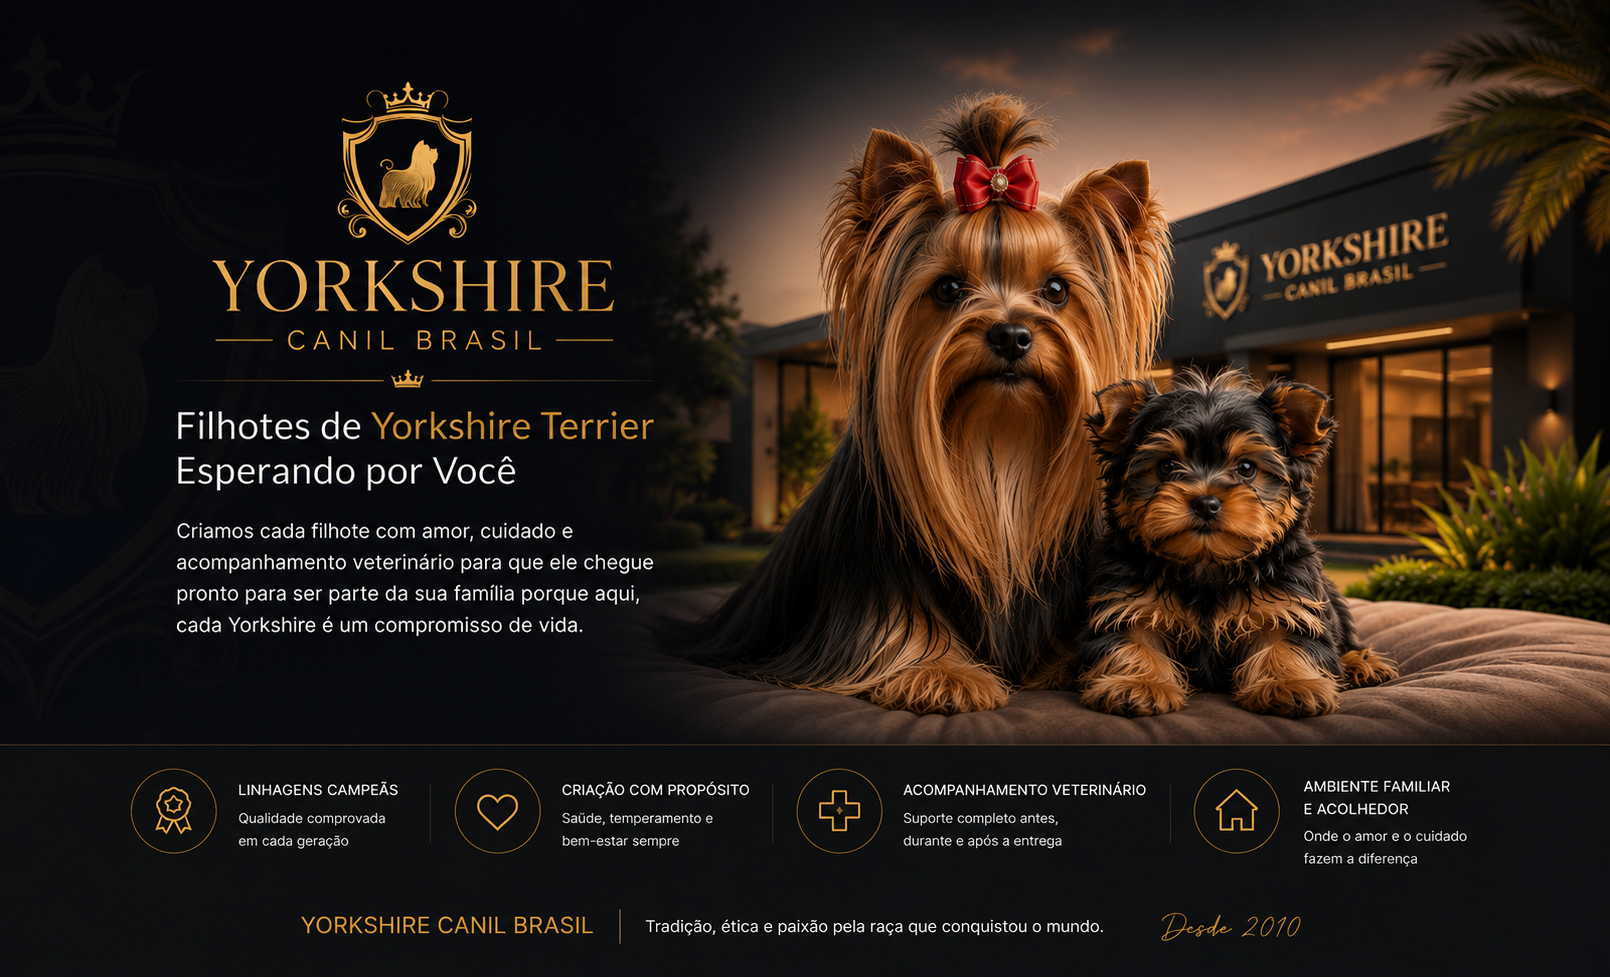
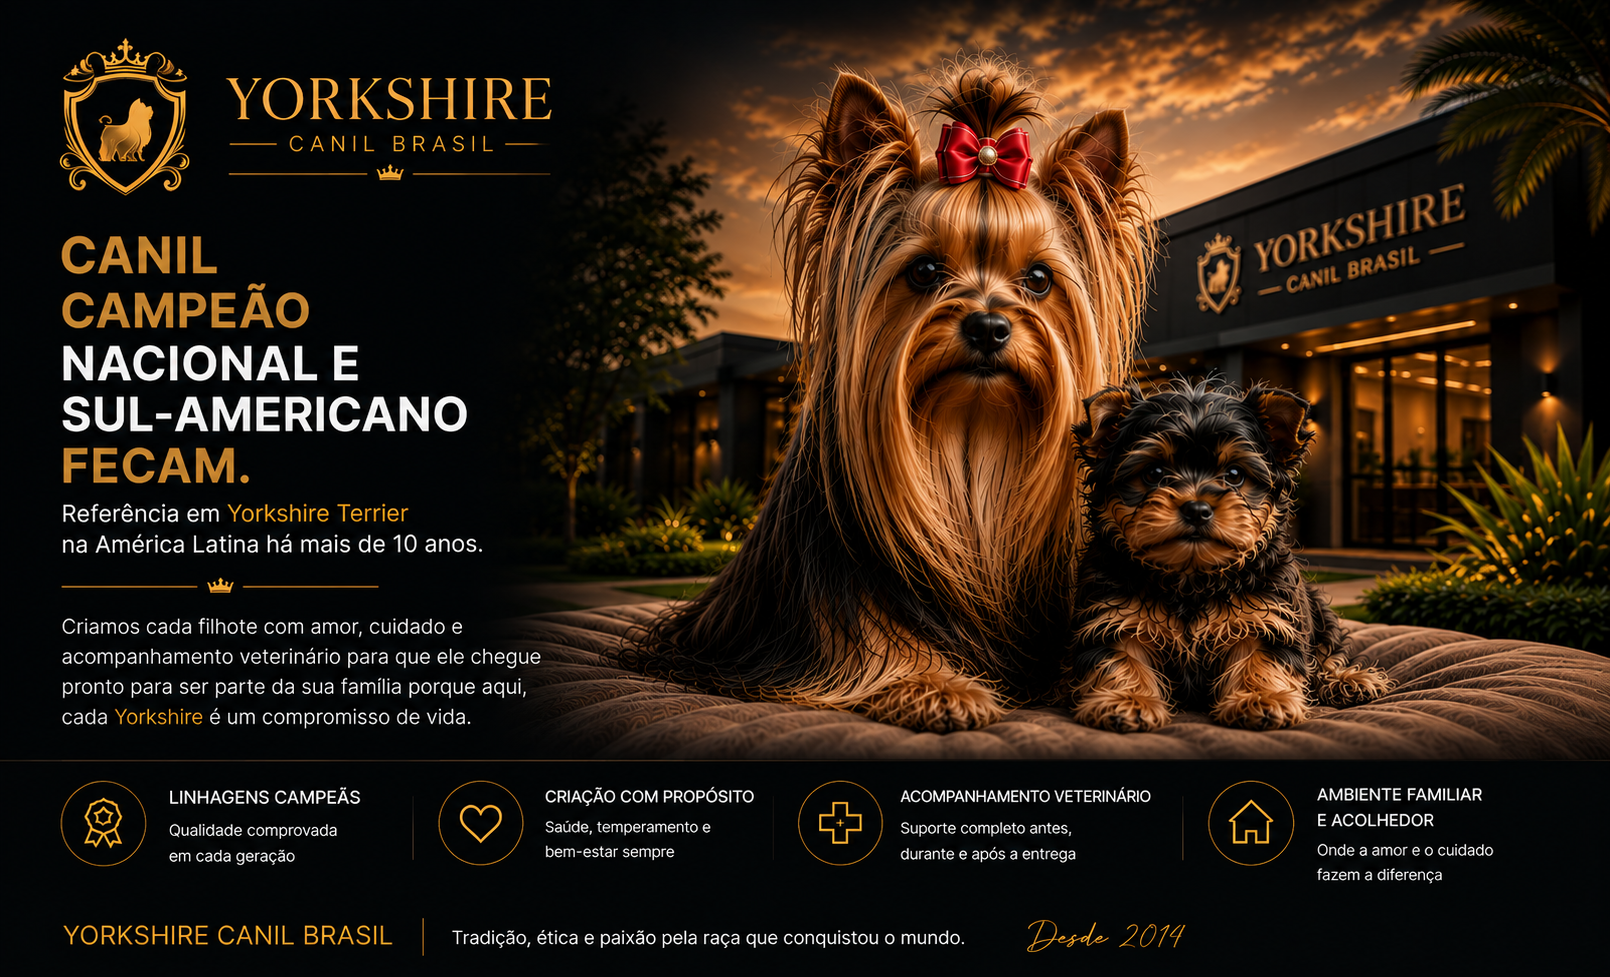
fix: ajustes pedidos pelo cliente

diff --git a/src/index.html b/src/index.html
@@ -235,16 +235,16 @@
       <section id="numeros" aria-label="Números do canil">
         <div class="numeros-grid">
           <div class="numero-item">
-            <strong>+10</strong>
-            <span>Anos de história</span>
+            <strong>Desde 2014</strong>
+            <span>Mais de 10 anos de história</span>
           </div>
           <div class="numero-item">
             <strong>Campeão</strong>
             <span>Nacional e Sul-Americano</span>
           </div>
           <div class="numero-item">
-            <strong>CBKC</strong>
-            <span>Registro oficial</span>
+            <strong>FECAM</strong>
+            <span>Referência na América Latina</span>
           </div>
           <div class="numero-item">
             <strong>Brasil</strong>
@@ -259,19 +259,27 @@
           <div class="titulo-card">
             <span class="titulo-icon">🏆</span>
             <h3>Campeão Nacional</h3>
-            <p>Título reconhecido pela CBKC</p>
           </div>
           <div class="titulo-card">
             <span class="titulo-icon">🏆</span>
             <h3>Campeão Sul-Americano</h3>
-            <p>Excelência reconhecida internacionalmente</p>
           </div>
           <div class="titulo-card">
             <span class="titulo-icon">📜</span>
             <h3>Canil Registrado</h3>
-            <p>Pedigree oficial e rastreabilidade completa</p>
           </div>
         </div>
+      </section>
+
+      <section id="famosos" aria-label="Famosos que já passaram por aqui">
+        <h2>Famosos que Já Passaram por Aqui</h2>
+        <div id="famosos-grid"></div>
+      </section>
+
+      <section id="emocoes" aria-label="Emoções reais">
+        <h2>Emoções Reais</h2>
+        <p class="section-subtitle">Famílias que confiaram em nós.</p>
+        <div id="emocoes-grid"></div>
       </section>
 
       <section id="filhotes" aria-label="Filhotes disponíveis">
@@ -290,17 +298,6 @@
           <a href="https://wa.me/5511977118201" target="_blank" rel="noopener" class="btn-primary">🐾 Quero Meu Filhote</a>
           <a href="#diferenciais" class="btn-outline">Sobre o Canil →</a>
         </div>
-      </section>
-
-      <section id="famosos" aria-label="Famosos que já passaram por aqui">
-        <h2>Famosos que Já Passaram por Aqui</h2>
-        <div id="famosos-grid"></div>
-      </section>
-
-      <section id="emocoes" aria-label="Emoções reais">
-        <h2>Emoções Reais</h2>
-        <p class="section-subtitle">Famílias que confiaram em nós.</p>
-        <div id="emocoes-grid"></div>
       </section>
 
       <!-- Seção oculta até receber depoimentos reais
@@ -338,7 +335,7 @@
           <div class="sobre-texto">
             <p>Há mais de 10 anos, o <strong>Yorkshire Canil Brazil</strong> se dedica à criação responsável, ética e amorosa dos mais lindos Yorkshire Terriers do Brasil.</p>
             <p>Com títulos nacionais e sul-americanos, somos o canil dos artistas e referência em toda a América Latina. Cuidamos de cada filhote como se fosse único, com carinho, saúde e estrutura de alto padrão.</p>
-            <p>Tradição, ética e paixão pela raça que conquistou o mundo. <em>Desde 2010.</em></p>
+            <p>Tradição, ética e paixão pela raça que conquistou o mundo. <em>Desde 2014.</em></p>
           </div>
         </div>
       </section>
@@ -355,8 +352,8 @@
         <article>
           <h3>Pedigree e Registro Oficial</h3>
           <p>
-            Todos os filhotes são registrados com pedigree completo e microchip
-            — garantia de linhagem e rastreabilidade.
+            Todos os filhotes são registrados com pedigree completo e microchip.
+            Garantia de linhagem e rastreabilidade.
           </p>
         </article>
         <article>
@@ -486,7 +483,7 @@
           </svg>
         </a>
       </div>
-      <p>&copy; 2025 Yorkshire Canil Brazil</p>
+      <p>&copy; 2014 Yorkshire Canil Brazil</p>
     </footer>
 
     <a

diff --git a/src/blog/index.html b/src/blog/index.html
@@ -31,23 +31,24 @@
 
   <main>
     <section class="blog-listing">
+      <a href="../index.html" class="blog-back">← Página Inicial</a>
       <h1>Blog — Dicas e Curiosidades sobre Yorkshire Terrier</h1>
 
       <div class="blog-grid">
         <article class="blog-card">
-          <h2><a href="como-cuidar-filhote-yorkshire.html">Como Cuidar de um Filhote de Yorkshire Terrier</a></h2>
+          <h2><a href="como-cuidar-filhote-yorkshire.html">Como Cuidar de Filhote Yorkshire</a></h2>
           <p>Guia completo com alimentação, vacinas, banho e os primeiros dias em casa.</p>
           <time datetime="2025-01-15">15 de janeiro de 2025</time>
         </article>
 
         <article class="blog-card">
-          <h2><a href="yorkshire-terrier-temperamento-personalidade.html">Temperamento do Yorkshire Terrier: Tudo que Você Precisa Saber</a></h2>
+          <h2><a href="yorkshire-terrier-temperamento-personalidade.html">Temperamento do Yorkshire</a></h2>
           <p>Descubra por que o Yorkshire é uma das raças mais amadas do Brasil.</p>
           <time datetime="2025-01-20">20 de janeiro de 2025</time>
         </article>
 
         <article class="blog-card">
-          <h2><a href="como-escolher-canil-yorkshire-confiavel.html">Como Escolher um Canil de Yorkshire Confiável</a></h2>
+          <h2><a href="como-escolher-canil-yorkshire-confiavel.html">Escolhendo um Canil Confiável</a></h2>
           <p>Dicas para identificar criadores sérios e evitar golpes na compra do seu filhote.</p>
           <time datetime="2025-01-25">25 de janeiro de 2025</time>
         </article>
@@ -56,7 +57,7 @@
   </main>
 
   <footer>
-    <p>&copy; 2025 Yorkshire Canil Brazil</p>
+    <p>&copy; 2014 Yorkshire Canil Brazil</p>
   </footer>
 
   <a href="https://wa.me/5511977118201" target="_blank" rel="noopener" class="whatsapp-float" aria-label="Fale pelo WhatsApp">

diff --git a/src/blog/yorkshire-terrier-temperamento-personalidade.html b/src/blog/yorkshire-terrier-temperamento-personalidade.html
@@ -43,7 +43,6 @@
       <a href="../index.html" class="logo"><img src="../images/e9762d_8b6bed4dcbc94d0c927977c8fc01122d~mv2.avif" alt="Yorkshire Canil Brazil" class="logo-img" /></a>
       <ul class="nav-links">
         <li><a href="../index.html#filhotes">Filhotes</a></li>
-        <li><a href="../index.html#blog">Blog</a></li>
         <li><a href="../index.html#contato">Contato</a></li>
       </ul>
       <button class="menu-toggle" aria-label="Abrir menu" aria-expanded="false">
@@ -54,6 +53,7 @@
 
   <main>
     <article class="blog-post">
+      <a href="./" class="blog-back">← Voltar ao Blog</a>
       <h1>Temperamento do Yorkshire Terrier: Tudo que Você Precisa Saber</h1>
       <time datetime="2025-01-20">20 de janeiro de 2025</time>
 
@@ -91,7 +91,7 @@
   </main>
 
   <footer>
-    <p>&copy; 2025 Yorkshire Canil Brazil</p>
+    <p>&copy; 2014 Yorkshire Canil Brazil</p>
   </footer>
 
   <a href="https://wa.me/5511977118201" target="_blank" rel="noopener" class="whatsapp-float" aria-label="Fale pelo WhatsApp">

diff --git a/src/blog/como-escolher-canil-yorkshire-confiavel.html b/src/blog/como-escolher-canil-yorkshire-confiavel.html
@@ -43,7 +43,6 @@
       <a href="../index.html" class="logo"><img src="../images/e9762d_8b6bed4dcbc94d0c927977c8fc01122d~mv2.avif" alt="Yorkshire Canil Brazil" class="logo-img" /></a>
       <ul class="nav-links">
         <li><a href="../index.html#filhotes">Filhotes</a></li>
-        <li><a href="../index.html#blog">Blog</a></li>
         <li><a href="../index.html#contato">Contato</a></li>
       </ul>
       <button class="menu-toggle" aria-label="Abrir menu" aria-expanded="false">
@@ -54,6 +53,7 @@
 
   <main>
     <article class="blog-post">
+      <a href="./" class="blog-back">← Voltar ao Blog</a>
       <h1>Como Escolher um Canil de Yorkshire Confiável</h1>
       <time datetime="2025-01-25">25 de janeiro de 2025</time>
 
@@ -107,7 +107,7 @@
   </main>
 
   <footer>
-    <p>&copy; 2025 Yorkshire Canil Brazil</p>
+    <p>&copy; 2014 Yorkshire Canil Brazil</p>
   </footer>
 
   <a href="https://wa.me/5511977118201" target="_blank" rel="noopener" class="whatsapp-float" aria-label="Fale pelo WhatsApp">

diff --git a/src/blog/como-cuidar-filhote-yorkshire.html b/src/blog/como-cuidar-filhote-yorkshire.html
@@ -43,7 +43,6 @@
       <a href="../index.html" class="logo"><img src="../images/e9762d_8b6bed4dcbc94d0c927977c8fc01122d~mv2.avif" alt="Yorkshire Canil Brazil" class="logo-img" /></a>
       <ul class="nav-links">
         <li><a href="../index.html#filhotes">Filhotes</a></li>
-        <li><a href="../index.html#blog">Blog</a></li>
         <li><a href="../index.html#contato">Contato</a></li>
       </ul>
       <button class="menu-toggle" aria-label="Abrir menu" aria-expanded="false">
@@ -54,6 +53,7 @@
 
   <main>
     <article class="blog-post">
+      <a href="./" class="blog-back">← Voltar ao Blog</a>
       <h1>Como Cuidar de um Filhote de Yorkshire Terrier</h1>
       <time datetime="2025-01-15">15 de janeiro de 2025</time>
 
@@ -96,7 +96,7 @@
   </main>
 
   <footer>
-    <p>&copy; 2025 Yorkshire Canil Brazil</p>
+    <p>&copy; 2014 Yorkshire Canil Brazil</p>
   </footer>
 
   <a href="https://wa.me/5511977118201" target="_blank" rel="noopener" class="whatsapp-float" aria-label="Fale pelo WhatsApp">

diff --git a/src/css/style.css b/src/css/style.css
@@ -162,15 +162,12 @@ details summary:focus-visible {
   padding: 0.5rem;
   font-size: 0.8rem;
   font-weight: 600;
-  position: sticky;
-  top: 0;
-  z-index: 200;
 }
 
 /* ===== HEADER (Glassmorphism) ===== */
 header {
   position: sticky;
-  top: 1.8rem;
+  top: 0;
   z-index: 100;
   background: rgb(15 23 42 / 80%);
   backdrop-filter: blur(12px) saturate(1.5);
@@ -957,6 +954,7 @@ details p {
 
 .blog-card h3 a {
   color: var(--color-primary);
+  font-size: 0.85rem;
 }
 
 .blog-card h3 a:hover {
@@ -1052,6 +1050,14 @@ details p {
 
 .blog-listing h1 {
   margin-bottom: var(--spacing-md);
+  font-size: clamp(1.2rem, 3vw, 1.8rem);
+}
+
+.blog-back {
+  display: inline-block;
+  margin-bottom: var(--spacing-sm);
+  font-size: 0.9rem;
+  font-weight: 500;
 }
 
 /* ===== FOOTER ===== */
@@ -1180,6 +1186,8 @@ footer {
 
 .blog-post h1 {
   margin-bottom: var(--spacing-xs);
+  font-size: clamp(1.1rem, 3vw, 1.8rem);
+  white-space: nowrap;
 }
 
 .blog-post time {

diff --git a/docs/checklist-lancamento.md b/docs/checklist-lancamento.md
@@ -163,3 +163,60 @@
 - [ ] Monitorar performance no PageSpeed (manter acima de 90)
 - [ ] Atualizar sitemap.xml ao adicionar novas páginas
 - [ ] Revisar e responder comentários/mensagens
+
+---
+
+## 5. Estratégia de Migração (Wix → Novo Site)
+
+### Situação Atual
+- Domínio `yorkshirecanilbrazil.com.br` ativo no Wix
+- Contrato Wix vigente
+- Novo site pronto para deploy
+
+### Fase 1 — Preview (agora)
+- [ ] Novo site no GitHub Pages para aprovação: `sergio-sena.github.io/Yorkshire-canil-brazil`
+- [ ] Cliente testa e aprova
+- [ ] Wix continua ativo normalmente
+
+### Fase 2 — Subdomínio (após aprovação)
+- [ ] Criar conta Cloudflare Pages (grátis)
+- [ ] Deploy do novo site no Cloudflare Pages
+- [ ] No painel DNS do Wix, criar CNAME: `novo.yorkshirecanilbrazil.com.br` → Cloudflare Pages
+- [ ] Cliente acessa `novo.yorkshirecanilbrazil.com.br` para validação final
+- [ ] Site Wix continua ativo em `yorkshirecanilbrazil.com.br`
+
+### Fase 3 — Virada (quando 100% aprovado)
+- [ ] No painel DNS, apontar `yorkshirecanilbrazil.com.br` para Cloudflare Pages
+- [ ] Ou transferir DNS para Cloudflare (grátis, mais controle)
+- [ ] Testar domínio principal no novo site
+- [ ] Remover `noindex` e ativar SEO
+- [ ] Descomentar canonical
+- [ ] Atualizar robots.txt
+- [ ] Submeter sitemap no Google Search Console
+
+### Fase 4 — Desativar Wix (quando contrato vencer)
+- [ ] Cancelar plano Wix
+- [ ] Confirmar que DNS não depende mais do Wix
+- [ ] Economia mensal do plano Wix
+
+### Hosting Recomendado por Fase
+
+| Fase | Hosting | Custo | CDN |
+|------|---------|-------|-----|
+| Preview | GitHub Pages | Grátis | Fastly |
+| Produção | Cloudflare Pages | Grátis | Cloudflare Global |
+| Se crescer muito | S3 + CloudFront | ~$5-10/mês | AWS Global |
+
+### Por que Cloudflare Pages?
+- Grátis (sem limite de banda)
+- CDN global (mais rápido que S3 para sites estáticos)
+- SSL automático
+- Deploy automático via GitHub
+- Custom domain fácil
+- Zero manutenção
+
+### Quando migrar para S3 + CloudFront?
+- Tráfego acima de 100k visitas/mês
+- Necessidade de controle avançado (Lambda@Edge, headers custom)
+- Vídeos muito pesados que precisem de streaming adaptativo (HLS)
+- Integração com outros serviços AWS
